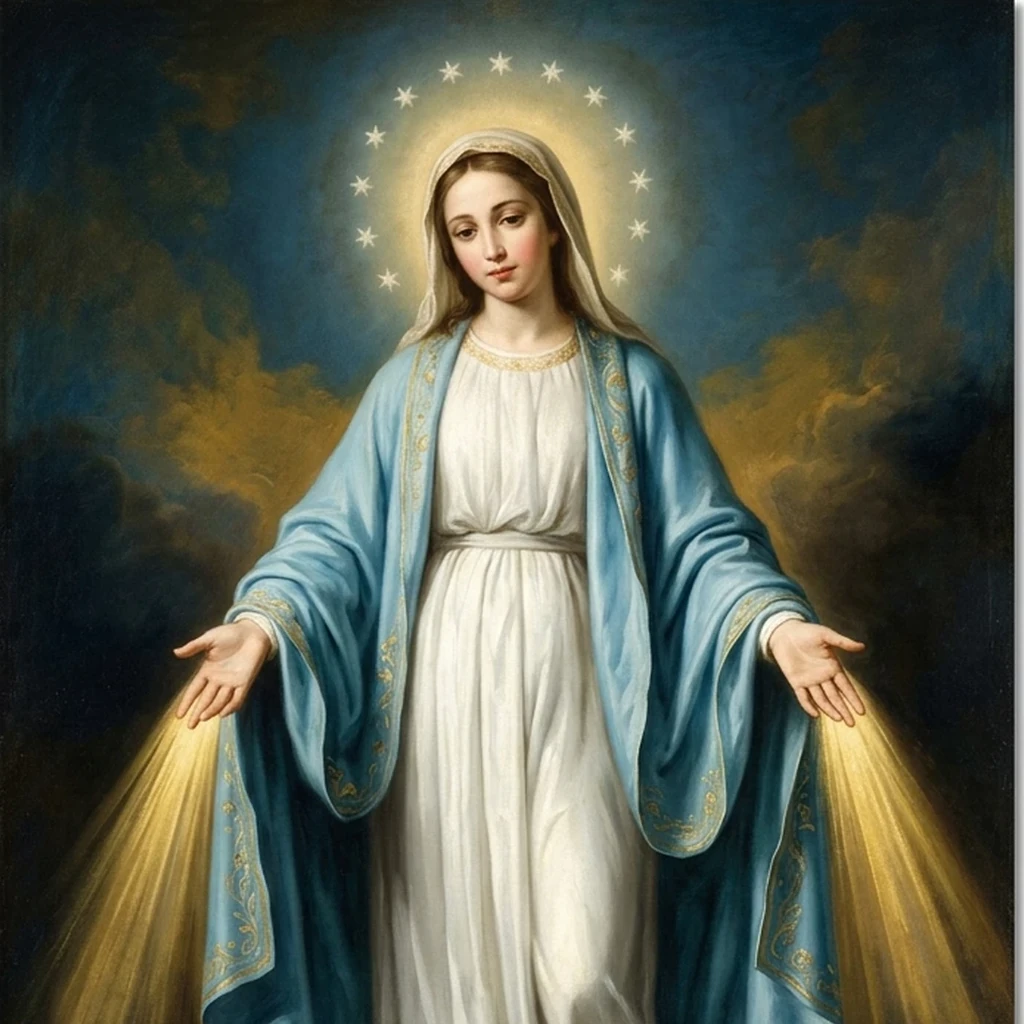
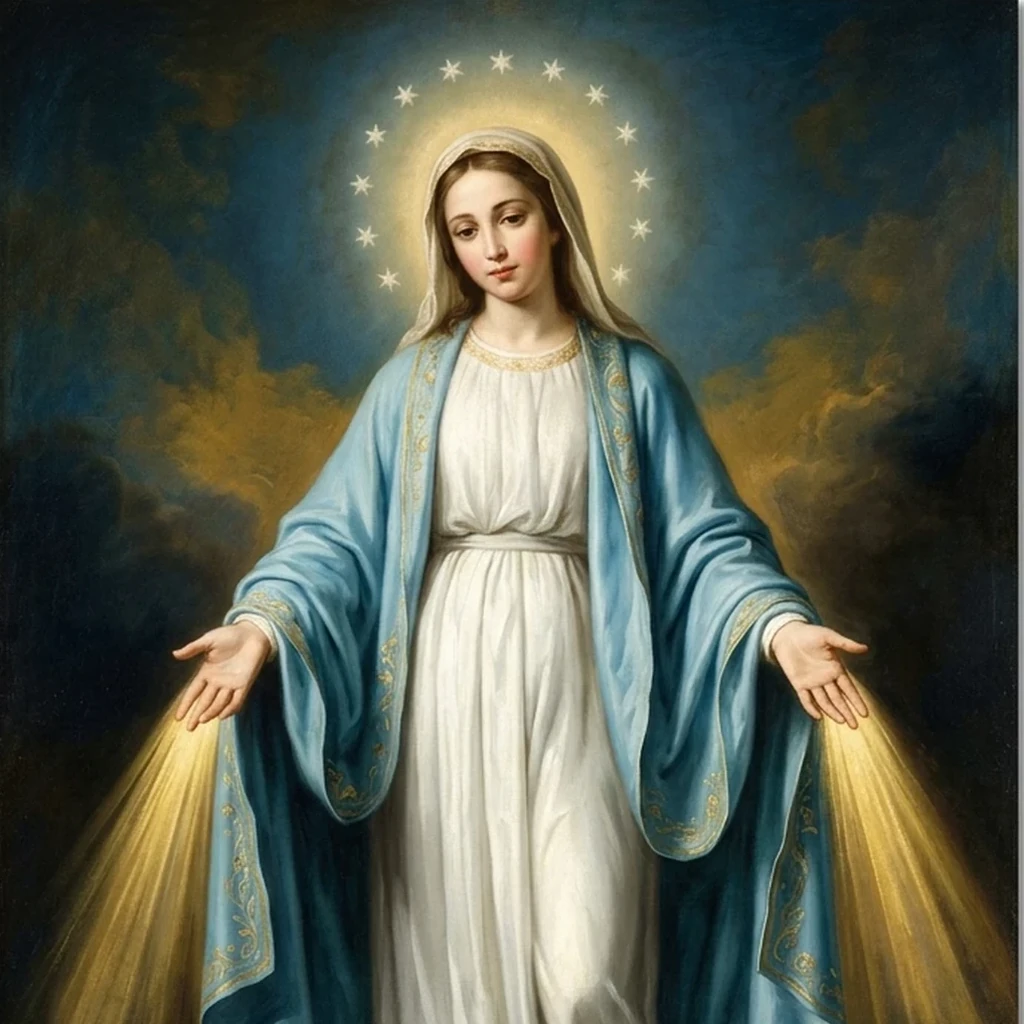
Remove bordas claras das imagens e melhora corte automático

diff --git a/tools/saint_image_daemon.py b/tools/saint_image_daemon.py
@@ -225,29 +225,55 @@ Regras de aprovação:
 
 def crop_letterbox_and_convert(src_path: str, dst_path: str) -> bool:
     """
-    Remove automaticamente bordas de letterboxing / sombras de canvas
-    e converte para WebP (qualidade 90, method 6, 1024x1024).
+    Remove automaticamente e rigorosamente quaisquer bordas claras, letterboxing,
+    pillarboxing ou margens de canvas, garantindo arte sacra 100% full-bleed edge-to-edge.
+    Converte para WebP (qualidade 90, method 6, 1024x1024).
     """
     try:
         img = Image.open(src_path)
         if img.mode == "RGBA":
             img = img.convert("RGB")
         arr = np.array(img)
+        h, w, _ = arr.shape
 
-        # Detecta margens claras (>240 em todos os canais RGB)
-        is_white = np.all(arr > 240, axis=-1)
-        if np.any(is_white[0, :]) or np.any(is_white[:, 0]):
-            rows = np.where(~np.all(is_white, axis=1))[0]
-            cols = np.where(~np.all(is_white, axis=0))[0]
-            if len(rows) and len(cols):
-                ymin, ymax = rows[0], rows[-1]
-                xmin, xmax = cols[0], cols[-1]
-                width = xmax - xmin + 1
-                height = ymax - ymin + 1
-                side = min(width, height)
-                img = img.crop((xmin, ymin, xmin + side, ymin + side))
+        # Detecta pixels claros (média RGB > 185)
+        is_light = np.mean(arr, axis=-1) > 185
 
-        # Redimensiona para padrão 1024x1024 se necessário
+        top = 0
+        while top < h // 4 and np.mean(is_light[top, :]) > 0.35:
+            top += 1
+
+        bottom = h - 1
+        while bottom > h * 3 // 4 and np.mean(is_light[bottom, :]) > 0.35:
+            bottom -= 1
+
+        left = 0
+        while left < w // 4 and np.mean(is_light[:, left]) > 0.35:
+            left += 1
+
+        right = w - 1
+        while right > w * 3 // 4 and np.mean(is_light[:, right]) > 0.35:
+            right -= 1
+
+        # Se houve detecção de borda clara em qualquer lado, aplica margem de segurança de corte
+        if top > 0 or bottom < h - 1 or left > 0 or right < w - 1:
+            top = min(top + 2, h // 4)
+            bottom = max(bottom - 2, h * 3 // 4)
+            left = min(left + 2, w // 4)
+            right = max(right - 2, w * 3 // 4)
+
+            crop_w = right - left + 1
+            crop_h = bottom - top + 1
+            side = min(crop_w, crop_h)
+            img = img.crop((left, top, left + side, top + side))
+        elif img.size[0] != img.size[1]:
+            # Se não é quadrado, centraliza para 1:1
+            min_side = min(img.size[0], img.size[1])
+            left = (img.size[0] - min_side) // 2
+            top = (img.size[1] - min_side) // 2
+            img = img.crop((left, top, left + min_side, top + min_side))
+
+        # Redimensiona para padrão 1024x1024
         if img.size != (1024, 1024):
             img = img.resize((1024, 1024), Image.Resampling.LANCZOS)
 
@@ -258,6 +284,7 @@ def crop_letterbox_and_convert(src_path: str, dst_path: str) -> bool:
     except Exception as e:
         log(f"Erro ao pós-processar imagem {src_path}: {e}")
         return False
+
 
 
 def build_canonical_prompt(nome: str, subtitulo: str) -> str:
